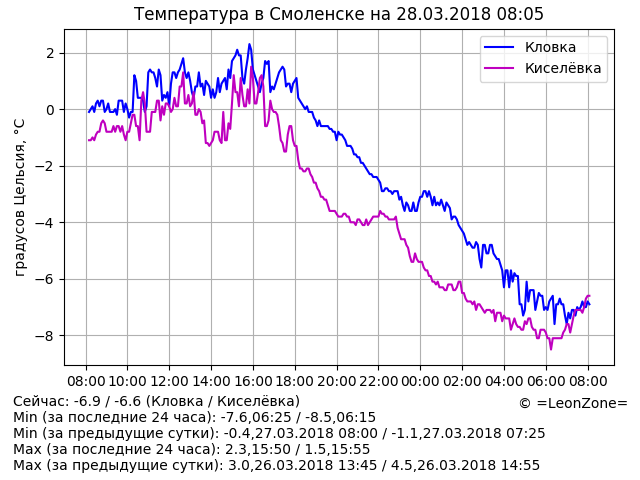
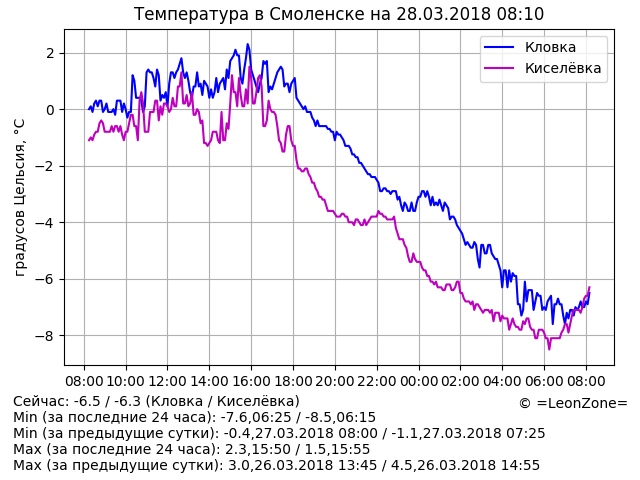
Update data

Changed region(s): [[0.125, 0.0625, 0.9375, 0.75], [0.0938, 0.7812, 0.9688, 0.8438], [0.8125, 0.0, 0.8438, 0.0625]]

diff --git a/index.html b/index.html
@@ -13,7 +13,7 @@
 	<p align="center"><script>document.write("<img src=\"graph.png?rnd="+Math.random()+"\" alt=\"Температура в Смоленске\" align=\"middle\" width=\"640\" height=\"480\" />")</script>
 	<p hidden="true">
 <!-- textinfo -->
-Сейчас: -6.9 / -6.6 (Кловка / Киселёвка)
+Сейчас: -6.5 / -6.3 (Кловка / Киселёвка)
 Min (за последние 24 часа): -7.6,06:25 / -8.5,06:15
 Min (за предыдущие сутки): -0.4,27.03.2018 08:00 / -1.1,27.03.2018 07:25
 Max (за последние 24 часа): 2.3,15:50 / 1.5,15:55
